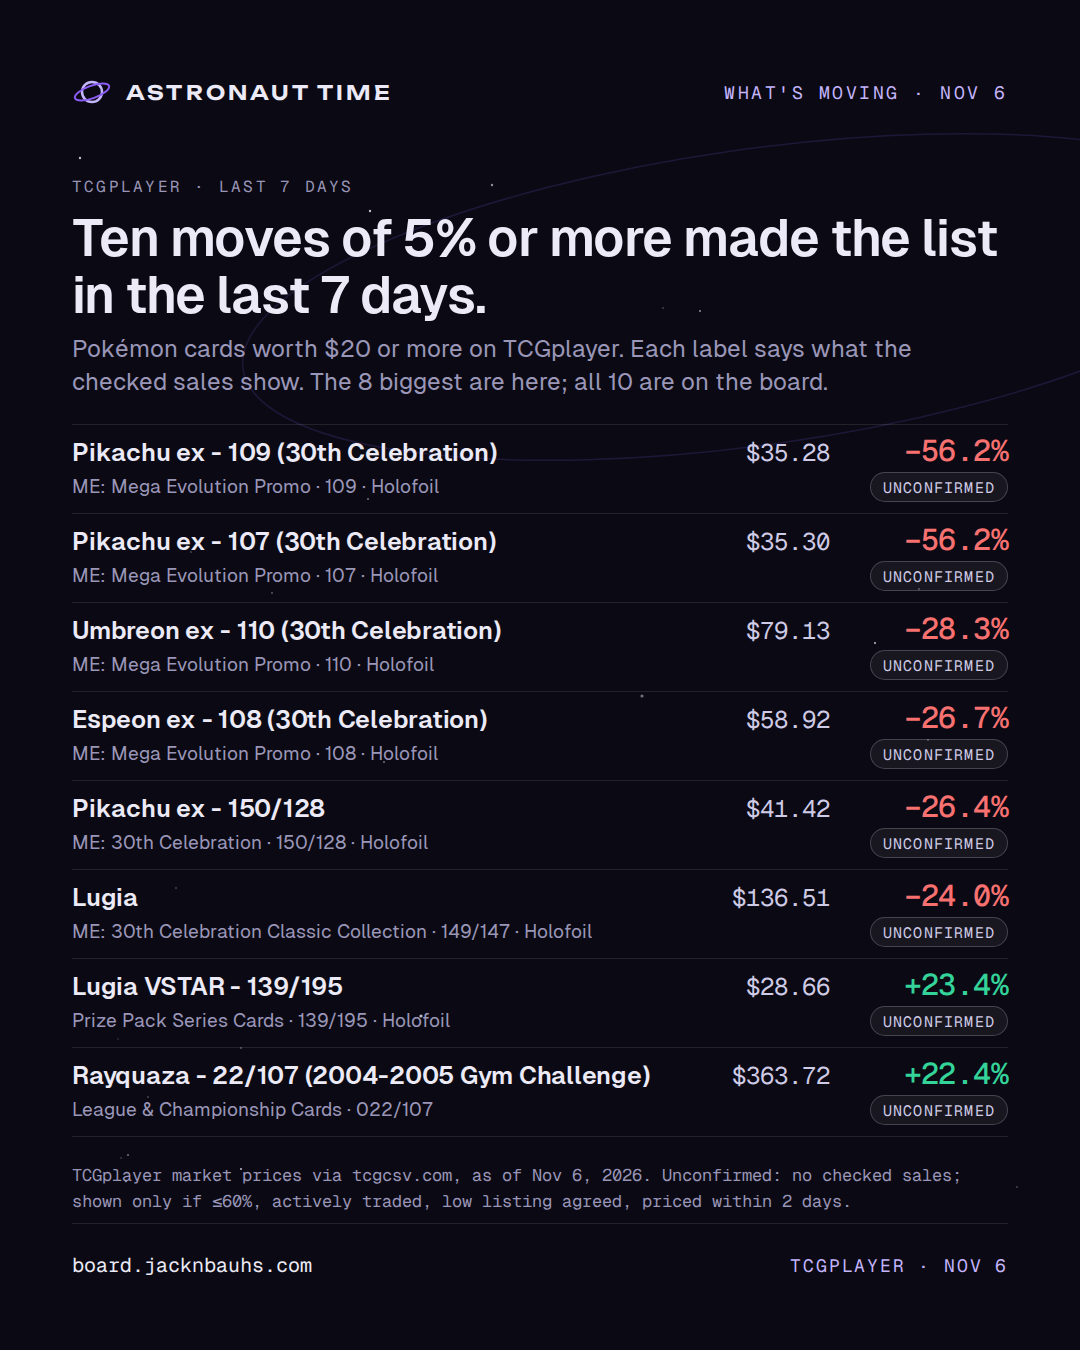
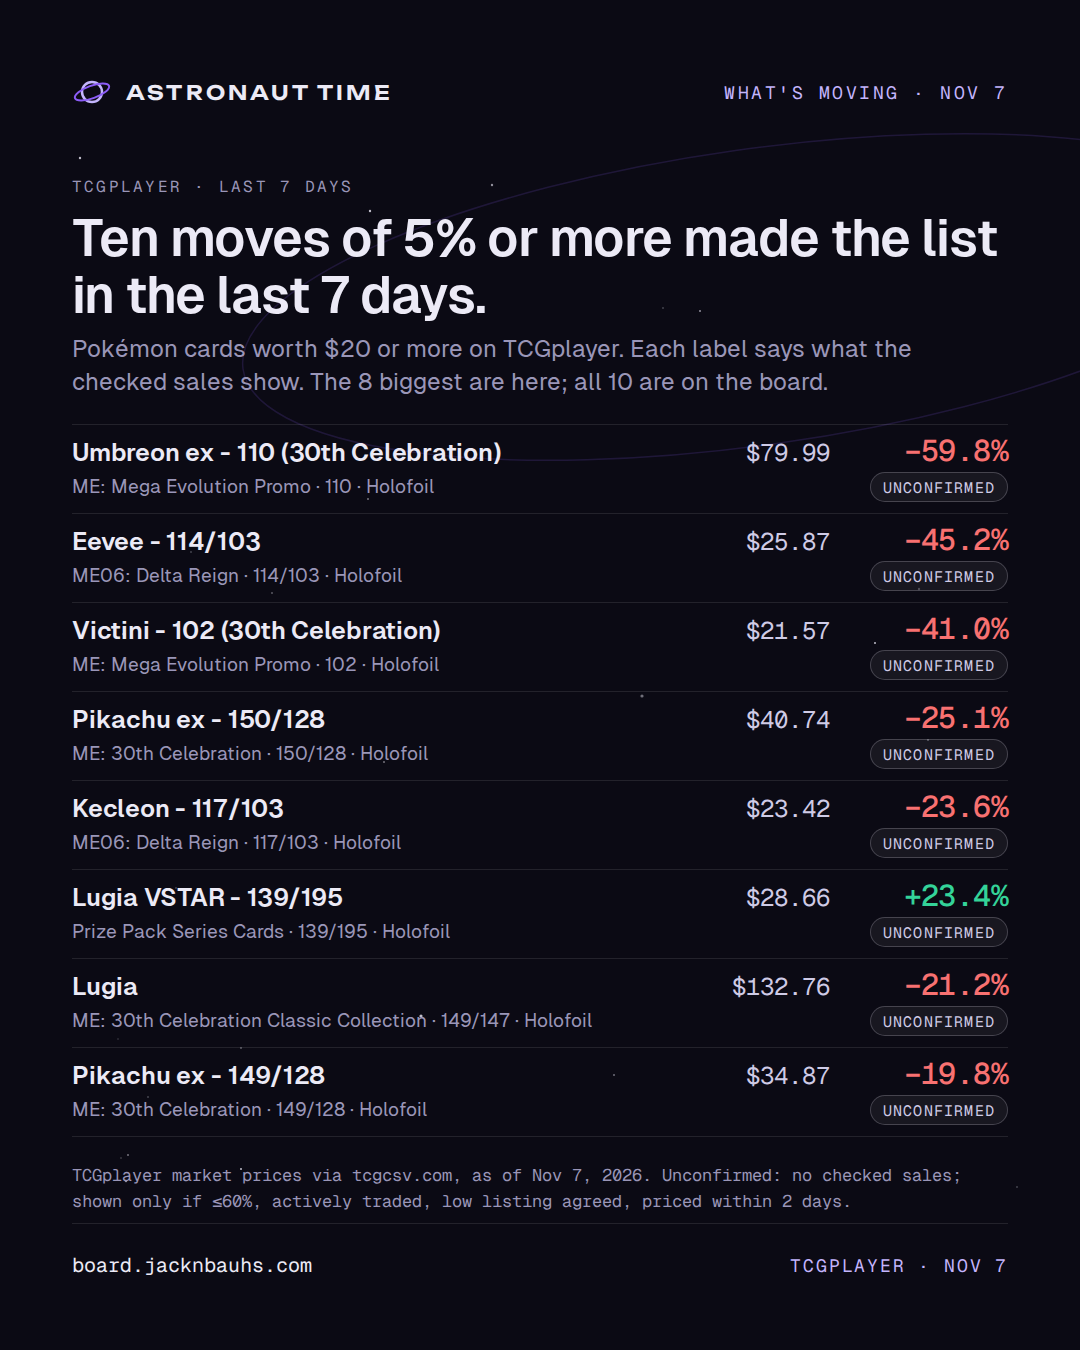
Share kit: render 2026-11-08

diff --git a/card.html b/card.html
@@ -10,14 +10,14 @@
 <meta property="og:url" content="https://board.jacknbauhs.com/card.html">
 <meta property="og:type" content="website">
 <meta property="og:site_name" content="Astronaut Time">
-<meta property="og:image" content="https://board.jacknbauhs.com/assets/og.png?v=2026-11-07">
+<meta property="og:image" content="https://board.jacknbauhs.com/assets/og.png?v=2026-11-08">
 <meta property="og:image:width" content="1200">
 <meta property="og:image:height" content="630">
 <meta property="og:image:alt" content="Mission Control by Astronaut Time: the card market, with the fake sales taken out.">
 <meta name="twitter:card" content="summary_large_image">
 <meta name="twitter:title" content="Card · Mission Control · Astronaut Time">
 <meta name="twitter:description" content="The card market, with the fake sales taken out.">
-<meta name="twitter:image" content="https://board.jacknbauhs.com/assets/og.png?v=2026-11-07">
+<meta name="twitter:image" content="https://board.jacknbauhs.com/assets/og.png?v=2026-11-08">
 <meta name="theme-color" content="#0B0A14">
 <link rel="icon" href="assets/favicon.svg" type="image/svg+xml">
 <link rel="preconnect" href="https://fonts.googleapis.com">

diff --git a/404.html b/404.html
@@ -10,14 +10,14 @@
 <meta property="og:url" content="https://board.jacknbauhs.com/">
 <meta property="og:type" content="website">
 <meta property="og:site_name" content="Astronaut Time">
-<meta property="og:image" content="https://board.jacknbauhs.com/assets/og.png?v=2026-11-07">
+<meta property="og:image" content="https://board.jacknbauhs.com/assets/og.png?v=2026-11-08">
 <meta property="og:image:width" content="1200">
 <meta property="og:image:height" content="630">
 <meta property="og:image:alt" content="Mission Control by Astronaut Time: the card market, with the fake sales taken out.">
 <meta name="twitter:card" content="summary_large_image">
 <meta name="twitter:title" content="Mission Control · Astronaut Time">
 <meta name="twitter:description" content="The card market, with the fake sales taken out.">
-<meta name="twitter:image" content="https://board.jacknbauhs.com/assets/og.png?v=2026-11-07">
+<meta name="twitter:image" content="https://board.jacknbauhs.com/assets/og.png?v=2026-11-08">
 <meta name="theme-color" content="#0B0A14">
 <link rel="icon" href="/assets/favicon.svg" type="image/svg+xml">
 <link rel="preconnect" href="https://fonts.googleapis.com">

diff --git a/index.html b/index.html
@@ -10,14 +10,14 @@
 <meta property="og:url" content="https://board.jacknbauhs.com/">
 <meta property="og:type" content="website">
 <meta property="og:site_name" content="Astronaut Time">
-<meta property="og:image" content="https://board.jacknbauhs.com/assets/og.png?v=2026-11-07">
+<meta property="og:image" content="https://board.jacknbauhs.com/assets/og.png?v=2026-11-08">
 <meta property="og:image:width" content="1200">
 <meta property="og:image:height" content="630">
 <meta property="og:image:alt" content="Mission Control by Astronaut Time: the card market, with the fake sales taken out.">
 <meta name="twitter:card" content="summary_large_image">
 <meta name="twitter:title" content="Mission Control · Astronaut Time">
 <meta name="twitter:description" content="The card market, with the fake sales taken out.">
-<meta name="twitter:image" content="https://board.jacknbauhs.com/assets/og.png?v=2026-11-07">
+<meta name="twitter:image" content="https://board.jacknbauhs.com/assets/og.png?v=2026-11-08">
 <meta name="theme-color" content="#0B0A14">
 <link rel="icon" href="assets/favicon.svg" type="image/svg+xml">
 <link rel="preconnect" href="https://fonts.googleapis.com">

diff --git a/share/out/captions.md b/share/out/captions.md
@@ -1,22 +1,22 @@
-# Captions, board data of 2026-11-07
+# Captions, board data of 2026-11-08
 
 One block per image. Caption first, alt text second. Plain facts, the source and the board link; nothing here is a buy.
 
 ## Before you post
 
-- ✅ Prices are from Nov 6, 2026.
+- ✅ Prices are from Nov 7, 2026.
 - ⚠ All 10 on the 7-day list are unconfirmed: no checked sale behind any. Keep "unconfirmed" in the post and call them price moves, not sales.
 - ⚠ All 10 on the since-yesterday list are unconfirmed: no checked sale behind any. Keep "unconfirmed" in the post and call them price moves, not sales.
 
-## file-2026-11-07-cover.png
+## file-2026-11-08-cover.png
 
-The File, Nov 7: The 5 biggest moves on the board's 7-day list, prices Oct 30 to Nov 6. TCGplayer's market price for Pikachu ex - 109 (30th Celebration) fell 56.2% to $35.28 between Oct 30 and Nov 6. None of the 5 has a checked sale behind the move: unconfirmed means Mission Control checked no sale in the window, not that anything is wrong. Pikachu ex - 109 (30th Celebration) (ME: Mega Evolution Promo): TCGplayer market price $35.28 on Nov 6, −56.2% in 7 days, unconfirmed. Pikachu ex - 107 (30th Celebration) (ME: Mega Evolution Promo): TCGplayer market price $35.30 on Nov 6, −56.2% in 7 days, unconfirmed. Umbreon ex - 110 (30th Celebration) (ME: Mega Evolution Promo): TCGplayer market price $79.13 on Nov 6, −28.3% in 7 days, unconfirmed. Espeon ex - 108 (30th Celebration) (ME: Mega Evolution Promo): TCGplayer market price $58.92 on Nov 6, −26.7% in 7 days, unconfirmed. Pikachu ex - 150/128 (ME: 30th Celebration): TCGplayer market price $41.42 on Nov 6, −26.4% in 7 days, unconfirmed. 5 of 5 moves on this File with no checked sale, or with checked sales that were flagged. Why now: Mission Control writes this File every morning from the nightly TCGplayer pull, so the board has a fresh File on the mornings no hand-written one is up (Tue, Thu and Sat are its days). What could break it: A market price is TCGplayer's average of recent completed sales of the same card, condition and printing, so one sale can move a thin card. The list's rule keeps out the moves nothing backs, not every thin one. This is not a read on whether these prices are high or low. What we're watching: Whether these moves hold on tomorrow's pull. A card drops off the list by moving less than 5% in a week, more than 60% with no checked sale, without its lowest listing moving the same way, or below $20. The next hand-written File day is today. Unconfirmed: no checked sales speak to the move yet. Source: TCGplayer market prices via tcgcsv.com, the board's 7-day list (prices Oct 30 to Nov 6, 2026, published Nov 7). board.jacknbauhs.com
+The File, Nov 8: The 5 biggest moves on the board's 7-day list, prices Oct 31 to Nov 7. TCGplayer's market price for Umbreon ex - 110 (30th Celebration) fell 59.8% to $79.99 between Oct 31 and Nov 7. None of the 5 has a checked sale behind the move: unconfirmed means Mission Control checked no sale in the window, not that anything is wrong. Umbreon ex - 110 (30th Celebration) (ME: Mega Evolution Promo): TCGplayer market price $79.99 on Nov 7, −59.8% in 7 days, unconfirmed. Eevee - 114/103 (ME06: Delta Reign): TCGplayer market price $25.87 on Nov 7, −45.2% in 7 days, unconfirmed. Victini - 102 (30th Celebration) (ME: Mega Evolution Promo): TCGplayer market price $21.57 on Nov 7, −41.0% in 7 days, unconfirmed. Pikachu ex - 150/128 (ME: 30th Celebration): TCGplayer market price $40.74 on Nov 7, −25.1% in 7 days, unconfirmed. Kecleon - 117/103 (ME06: Delta Reign): TCGplayer market price $23.42 on Nov 7, −23.6% in 7 days, unconfirmed. 5 of 5 moves on this File with no checked sale, or with checked sales that were flagged. Why now: Mission Control writes this File every morning from the nightly TCGplayer pull, so the board has a fresh File on the mornings no hand-written one is up (Tue, Thu and Sat are its days). What could break it: A market price is TCGplayer's average of recent completed sales of the same card, condition and printing, so one sale can move a thin card. The list's rule keeps out the moves nothing backs, not every thin one. This is not a read on whether these prices are high or low. What we're watching: Whether these moves hold on tomorrow's pull. A card drops off the list by moving less than 5% in a week, more than 60% with no checked sale, without its lowest listing moving the same way, or below $20. The next hand-written File day is Tuesday, Nov 10. Unconfirmed: no checked sales speak to the move yet. Source: TCGplayer market prices via tcgcsv.com, the board's 7-day list (prices Oct 31 to Nov 7, 2026, published Nov 8). board.jacknbauhs.com
 
-Alt: The File on the Astronaut Time board: The 5 biggest moves on the board's 7-day list, prices Oct 30 to Nov 6. The biggest moves on the board's 7-day list, prices Oct 30 to Nov 6: −56.2%, in 7 days · Pikachu ex - 109 (30th Celebration). Five 7-day TCGplayer moves as bars, each with its change, price and label, and the flags tally, 5 of 5.
+Alt: The File on the Astronaut Time board: The 5 biggest moves on the board's 7-day list, prices Oct 31 to Nov 7. The biggest moves on the board's 7-day list, prices Oct 31 to Nov 7: −59.8%, in 7 days · Umbreon ex - 110 (30th Celebration). Five 7-day TCGplayer moves as bars, each with its change, price and label, and the flags tally, 5 of 5.
 
-## flags-2026-11-06-cover.png
+## flags-2026-11-07-cover.png
 
-5 of 5 moves on this File with no checked sale, or with checked sales that were flagged. Mission Control checked no sale behind 5 of the 5 moves on this File. With no checked sales, a move shows only if it's 60% or less over 7 days and TCGplayer's lowest listing moved the same way by at least a quarter as much. Pikachu ex - 109 (30th Celebration), Nov 6: $35.28, −56.2% in 7 days; no sales checked in this window. Pikachu ex - 107 (30th Celebration), Nov 6: $35.30, −56.2% in 7 days; no sales checked in this window. Umbreon ex - 110 (30th Celebration), Nov 6: $79.13, −28.3% in 7 days; no sales checked in this window. Espeon ex - 108 (30th Celebration), Nov 6: $58.92, −26.7% in 7 days; no sales checked in this window. Pikachu ex - 150/128, Nov 6: $41.42, −26.4% in 7 days; no sales checked in this window. Every one is on the board with its label. Prices are TCGplayer's market price after the move. Source: TCGplayer market prices via tcgcsv.com, the board's 7-day list (prices Oct 30 to Nov 6, 2026, published Nov 7). board.jacknbauhs.com
+5 of 5 moves on this File with no checked sale, or with checked sales that were flagged. Mission Control checked no sale behind 5 of the 5 moves on this File. With no checked sales, a move shows only if it's 60% or less over 7 days and TCGplayer's lowest listing moved the same way by at least a quarter as much. Umbreon ex - 110 (30th Celebration), Nov 7: $79.99, −59.8% in 7 days; no sales checked in this window. Eevee - 114/103, Nov 7: $25.87, −45.2% in 7 days; no sales checked in this window. Victini - 102 (30th Celebration), Nov 7: $21.57, −41.0% in 7 days; no sales checked in this window. Pikachu ex - 150/128, Nov 7: $40.74, −25.1% in 7 days; no sales checked in this window. Kecleon - 117/103, Nov 7: $23.42, −23.6% in 7 days; no sales checked in this window. Every one is on the board with its label. Prices are TCGplayer's market price after the move. Source: TCGplayer market prices via tcgcsv.com, the board's 7-day list (prices Oct 31 to Nov 7, 2026, published Nov 8). board.jacknbauhs.com
 
 Alt: What we couldn't confirm: 5 of 5 moves on this File with no checked sale, or with checked sales that were flagged, all 5 listed one per line with the day, the card, the change and the TCGplayer market price after it.
 
@@ -46,6 +46,6 @@ Alt: Three calls on the record. Number 001: The 30th Celebration Booster Bundle'
 
 ## moving-2026-W45.png
 
-What's moving on TCGplayer, as of Nov 6, 2026. Ten moves of 5% or more made the list in the last 7 days. Pikachu ex - 109 (30th Celebration) (ME: Mega Evolution Promo · 109 · Holofoil): $35.28, −56.2%, unconfirmed. Pikachu ex - 107 (30th Celebration) (ME: Mega Evolution Promo · 107 · Holofoil): $35.30, −56.2%, unconfirmed. Umbreon ex - 110 (30th Celebration) (ME: Mega Evolution Promo · 110 · Holofoil): $79.13, −28.3%, unconfirmed. Espeon ex - 108 (30th Celebration) (ME: Mega Evolution Promo · 108 · Holofoil): $58.92, −26.7%, unconfirmed. Pikachu ex - 150/128 (ME: 30th Celebration · 150/128 · Holofoil): $41.42, −26.4%, unconfirmed. Lugia (ME: 30th Celebration Classic Collection · 149/147 · Holofoil): $136.51, −24.0%, unconfirmed. Lugia VSTAR - 139/195 (Prize Pack Series Cards · 139/195 · Holofoil): $28.66, +23.4%, unconfirmed. Rayquaza - 22/107 (2004-2005 Gym Challenge) (League & Championship Cards · 022/107): $363.72, +22.4%, unconfirmed. Unconfirmed: no checked sales; shown only if ≤60%, actively traded, low listing agreed, priced within 2 days. Source: TCGplayer market prices via tcgcsv.com, as of Nov 6, 2026. board.jacknbauhs.com
+What's moving on TCGplayer, as of Nov 7, 2026. Ten moves of 5% or more made the list in the last 7 days. Umbreon ex - 110 (30th Celebration) (ME: Mega Evolution Promo · 110 · Holofoil): $79.99, −59.8%, unconfirmed. Eevee - 114/103 (ME06: Delta Reign · 114/103 · Holofoil): $25.87, −45.2%, unconfirmed. Victini - 102 (30th Celebration) (ME: Mega Evolution Promo · 102 · Holofoil): $21.57, −41.0%, unconfirmed. Pikachu ex - 150/128 (ME: 30th Celebration · 150/128 · Holofoil): $40.74, −25.1%, unconfirmed. Kecleon - 117/103 (ME06: Delta Reign · 117/103 · Holofoil): $23.42, −23.6%, unconfirmed. Lugia VSTAR - 139/195 (Prize Pack Series Cards · 139/195 · Holofoil): $28.66, +23.4%, unconfirmed. Lugia (ME: 30th Celebration Classic Collection · 149/147 · Holofoil): $132.76, −21.2%, unconfirmed. Pikachu ex - 149/128 (ME: 30th Celebration · 149/128 · Holofoil): $34.87, −19.8%, unconfirmed. Unconfirmed: no checked sales; shown only if ≤60%, actively traded, low listing agreed, priced within 2 days. Source: TCGplayer market prices via tcgcsv.com, as of Nov 7, 2026. board.jacknbauhs.com
 
 Alt: What's moving: the 8 biggest of the 10 TCGplayer moves on the list in the last 7 days, each with its market price, its change and the label for what checked sales show.

diff --git a/share/out/site/squarespace.md b/share/out/site/squarespace.md
@@ -2,7 +2,7 @@
 
 ## Four tiles (one Markdown block per column, or all four in one block)
 
-[![The File: The 5 biggest moves on the board's 7-day list, prices Oct 30 to Nov 6. −56.2%: The biggest moves on the board's 7-day list, prices Oct 30 to Nov 6, in 7 days · Pikachu ex - 109 (30th Celebration). No sale checked behind 5 of the 5. Not a read on whether these prices are high or low.](https://board.jacknbauhs.com/share/out/site/tile-file.png)](https://board.jacknbauhs.com)
+[![The File: The 5 biggest moves on the board's 7-day list, prices Oct 31 to Nov 7. −59.8%: The biggest moves on the board's 7-day list, prices Oct 31 to Nov 7, in 7 days · Umbreon ex - 110 (30th Celebration). No sale checked behind 5 of the 5. Not a read on whether these prices are high or low.](https://board.jacknbauhs.com/share/out/site/tile-file.png)](https://board.jacknbauhs.com)
 
 [![What we couldn't confirm: 5 of 5 moves on this File with no checked sale, or with checked sales that were flagged, each labeled with the reason.](https://board.jacknbauhs.com/share/out/site/tile-flags.png)](https://board.jacknbauhs.com)
 
